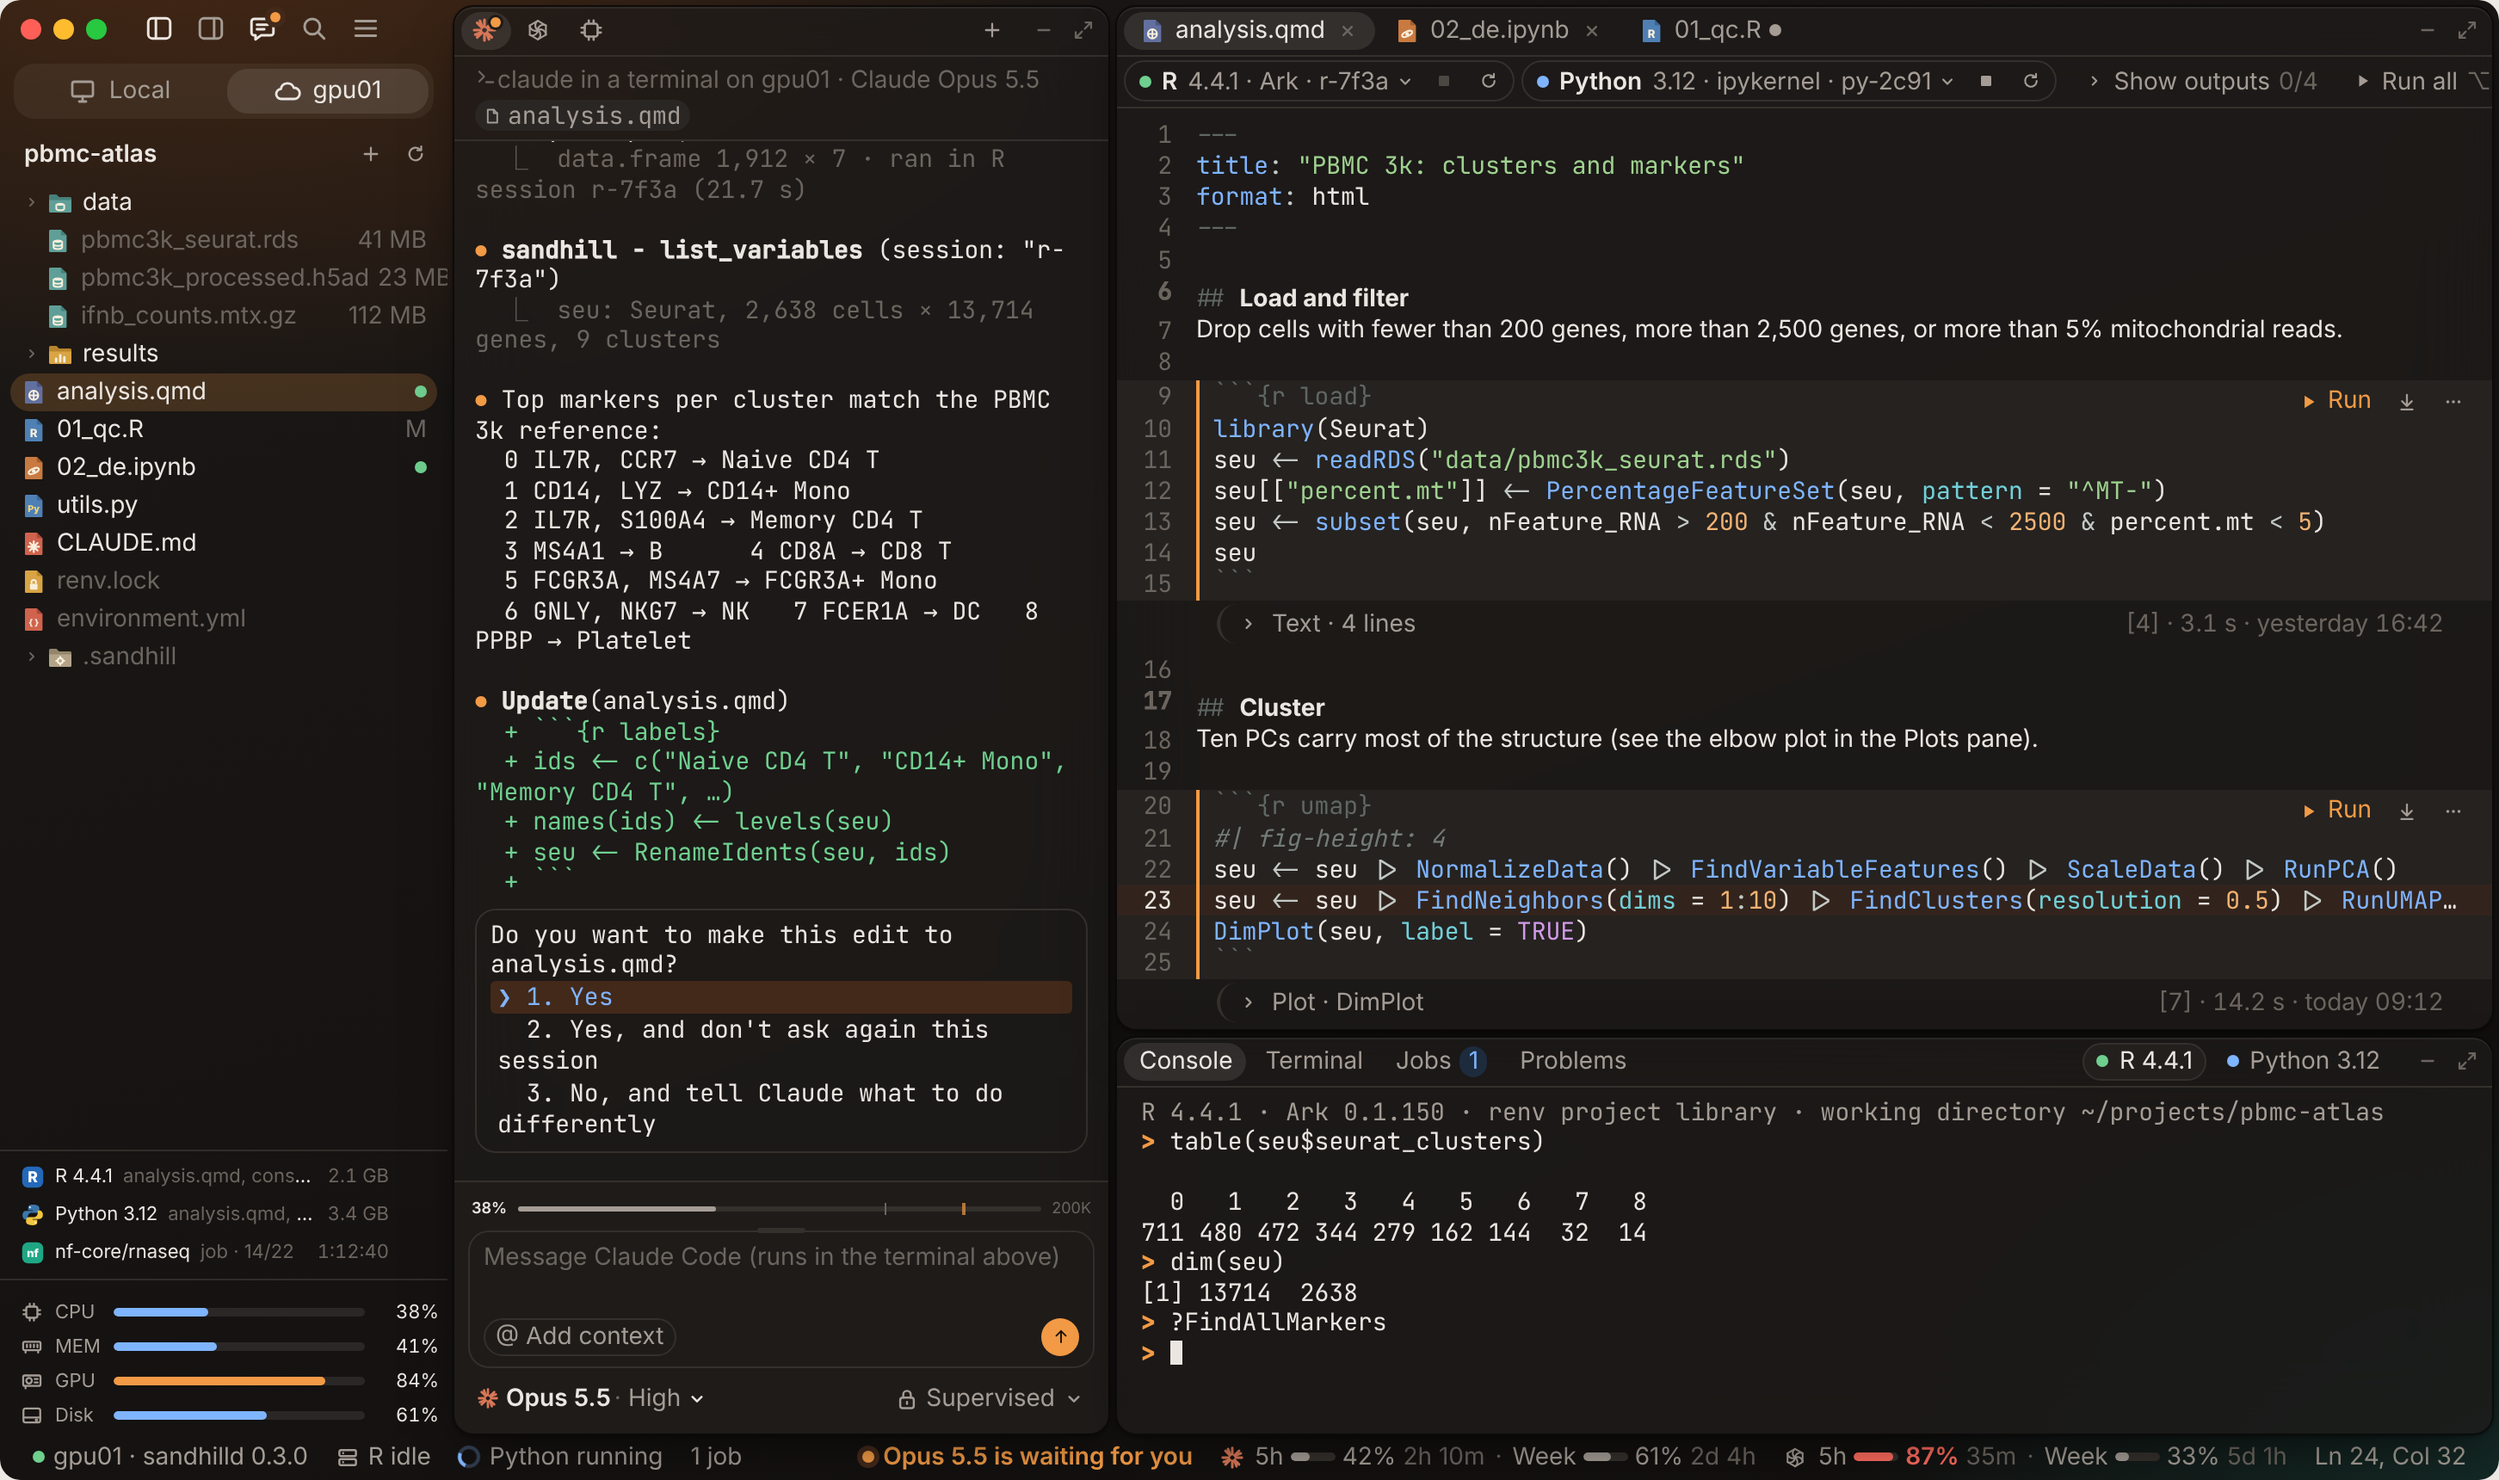
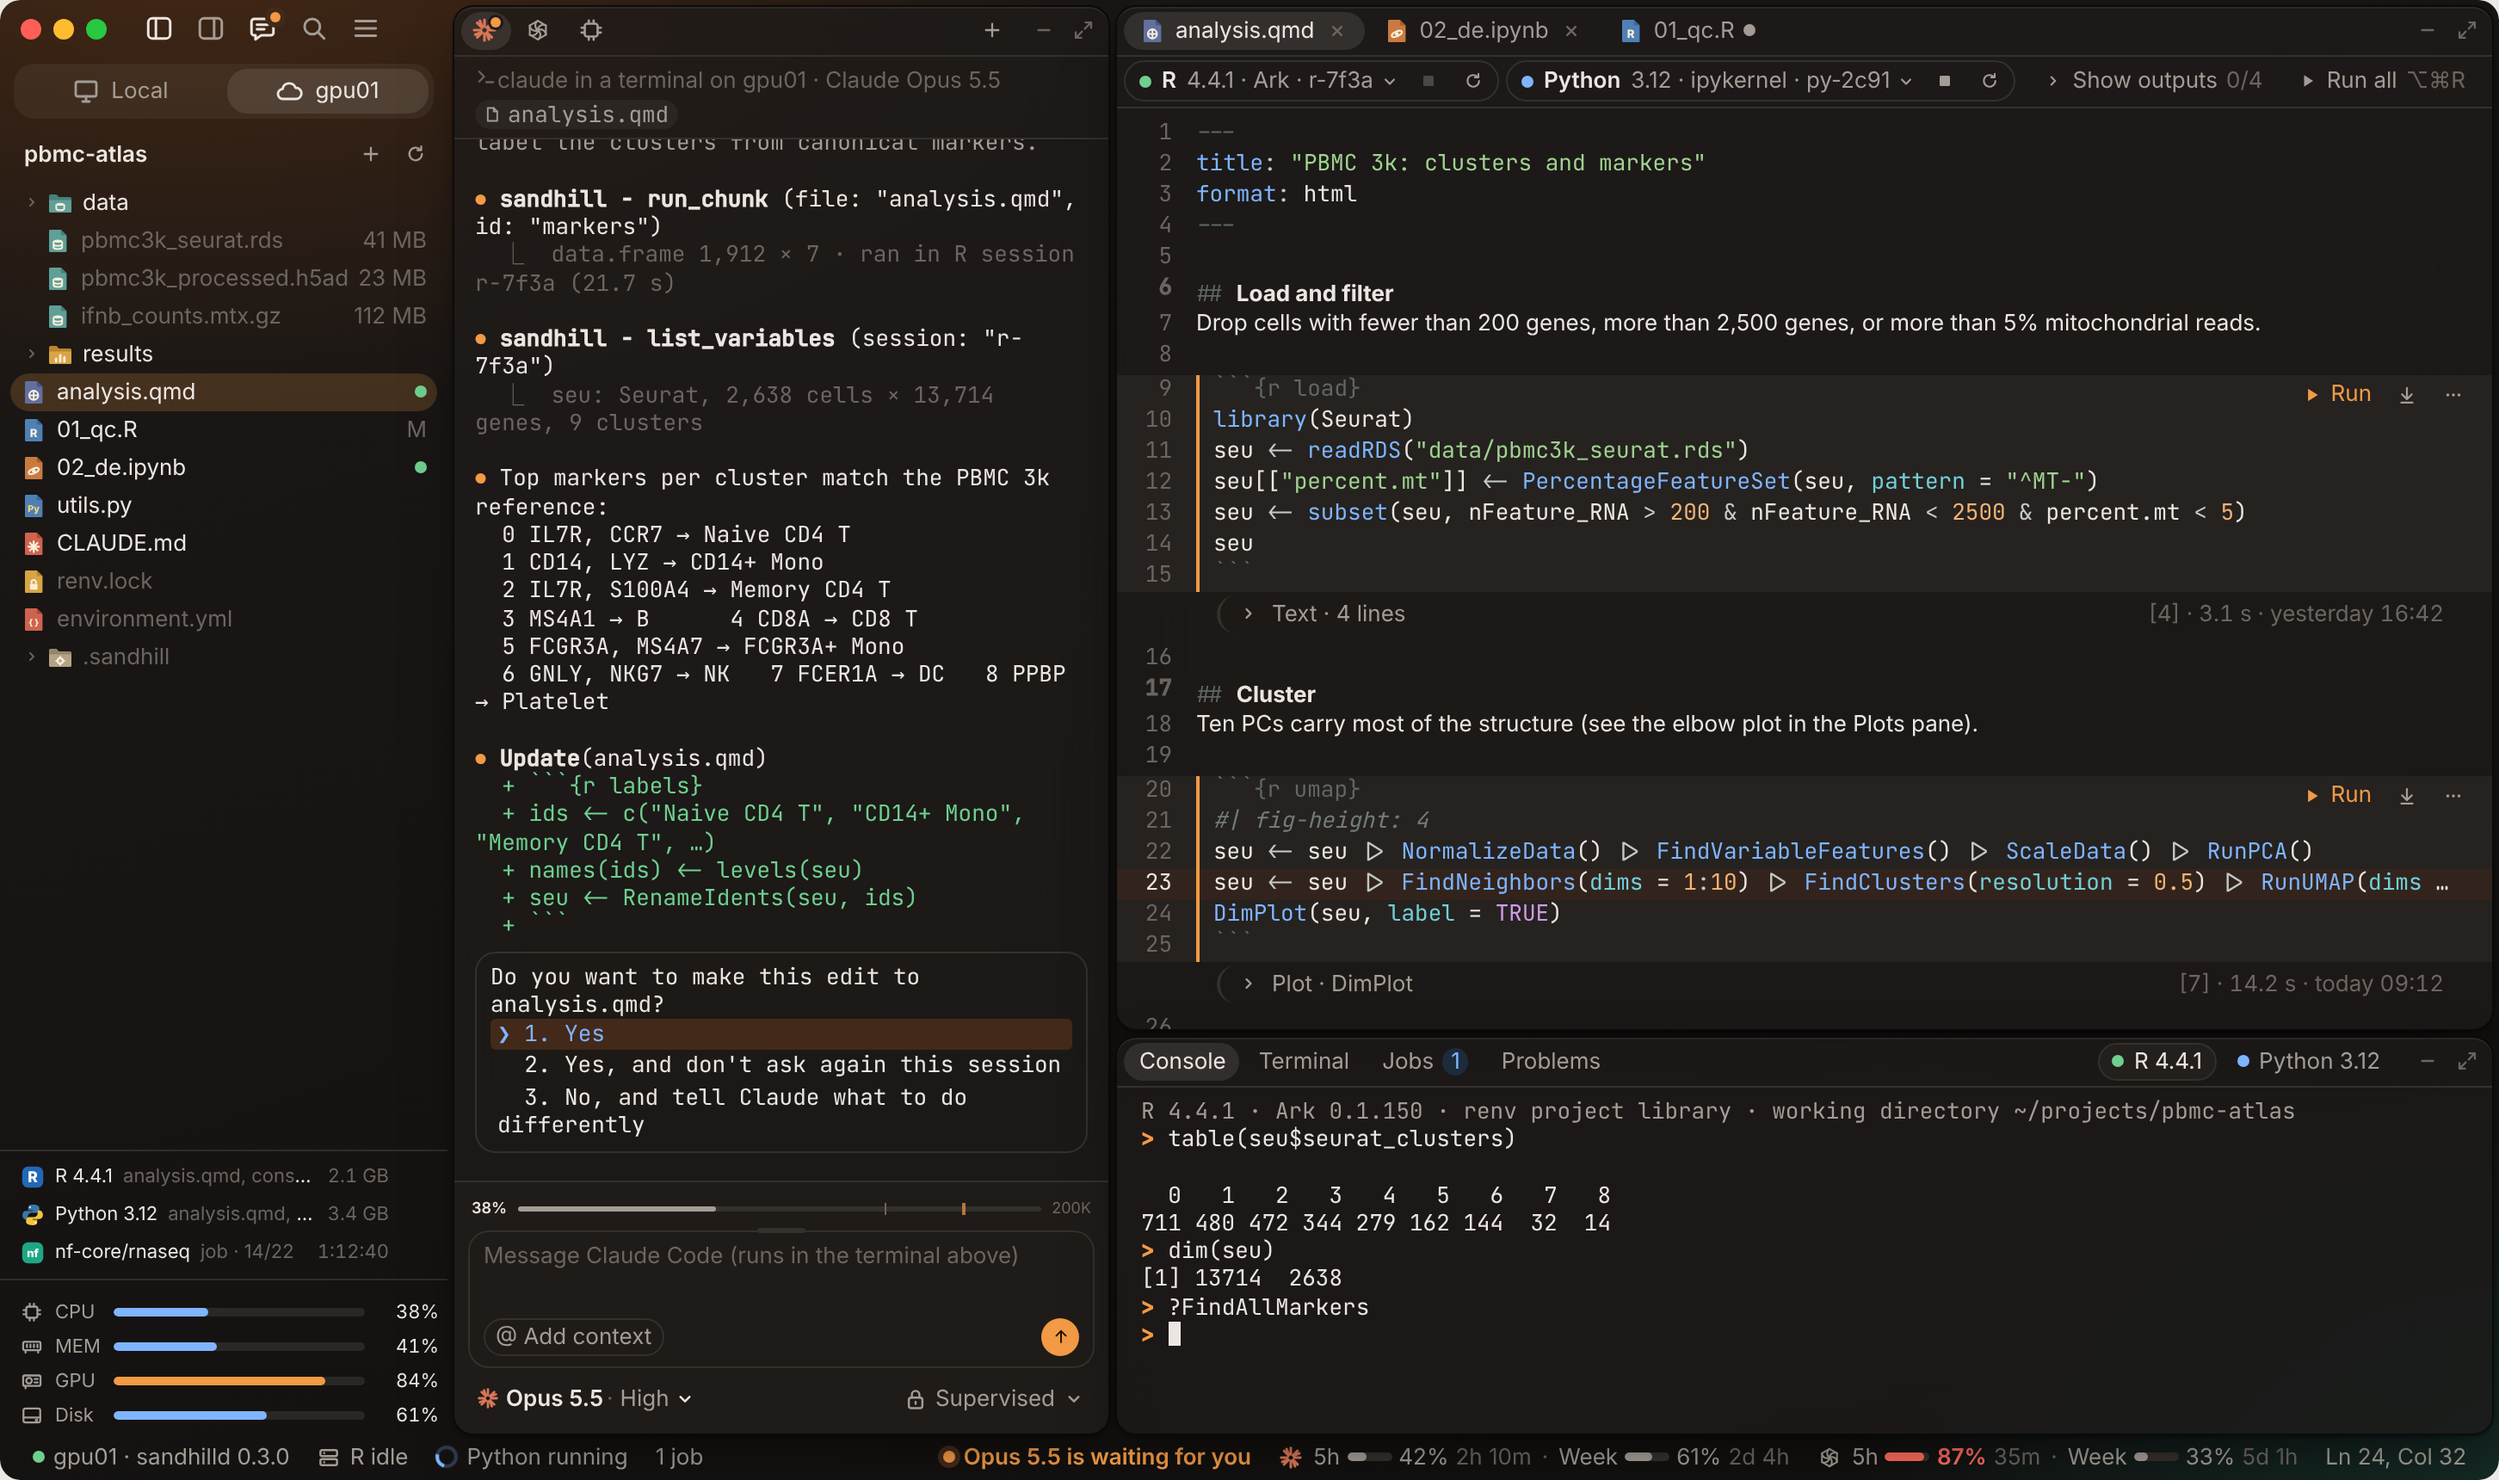
UI design draft 17: 13px text
All UI text, the code editor, the console and the agent terminals go from
14px to 13px, the standard text size in macOS apps. Kernel and resource
rows stay 11px and the context bar 9px. The screenshots are retaken and
tagged 144 dpi so they open at true size on a Mac.

Claude-Session: https://claude.ai/code/session_0187p3DxTnKwzK8yk3QPH67w

diff --git a/docs/design/ui/sandhill-layout.html b/docs/design/ui/sandhill-layout.html
@@ -1055,6 +1055,10 @@ h2.notes-h { font-size: 13px; margin: 6px 0 0; color: var(--page-muted); font-we
 .atab .ax { width: 0; overflow: hidden; margin-left: 0; transition: width .1s; }
 .atab:hover .ax { width: 16px; margin-left: 2px; }
 .ico.prov.open { stroke: currentColor; }
+/* ---------- draft 17 ---------- */
+/* 13px text, the macOS standard size; kernel and resource rows stay 11px, the context bar 9px */
+.win { --fs-chrome: 13px; --fs-body: 13px; --fs-code: 13px; font-size: 13px; }
+.win :not(svg, svg *, .badge, .rail .badge) { font-size: 13px !important; }
 </style>
 
 <svg width="0" height="0" style="position:absolute" aria-hidden="true">
@@ -1137,7 +1141,7 @@ h2.notes-h { font-size: 13px; margin: 6px 0 0; color: var(--page-muted); font-we
 <div class="pagewrap">
   <header class="pagehead">
[1 lines of base64/hex data omitted]
-    <span class="sub">Clickable mockup, draft 16. Every pane, tab and toggle responds. The data is example data.</span>
+    <span class="sub">Clickable mockup, draft 17. Every pane, tab and toggle responds. The data is example data.</span>
     <span style="flex:1"></span>
     <div class="ctl"><span>Screen</span>
       <div class="seg" id="screenSeg">

diff --git a/docs/design/ui/spec.md b/docs/design/ui/spec.md
@@ -1,11 +1,13 @@
 # Sandhill window layout: agreed design
 
-Agreed with Huan on 2026-10-11 after 16 drafts. The clickable mockup is
+Agreed with Huan on 2026-10-11 after 16 drafts. Draft 17 (2026-10-12) made the
+text 13px instead of 14px. The clickable mockup is
 [sandhill-layout.html](sandhill-layout.html), also published at
 https://claude.ai/artifact/DSC3kDKpeh3XhX8ogsiVA9. It has light and dark
 themes and four screens: Workspace, Data Explorer, With agent and Start.
 The screenshots are `workspace-light.png`, `workspace-dark.png`,
-`with-agent-light.png` and `with-agent-dark.png`.
+`with-agent-light.png` and `with-agent-dark.png`. They show a 1452 × 860 point
+window at 2× (2904 × 1720 pixels), tagged 144 dpi so they open at true size on a Mac.
 
 The mockup is the reference. Where this spec and the mockup differ, the mockup wins.
 
@@ -86,8 +88,9 @@ The mockup is the reference. Where this spec and the mockup differ, the mockup w
   Claude Code and Codex, then cursor position.
 
 ## Type and colour
-- 14px for all UI text, in the macOS system font. JetBrains Mono at 14px for the code
-  editor, the console and the agent terminals.
+- 13px for all UI text, in the macOS system font; 13px is the standard text size in
+  macOS apps. JetBrains Mono at 13px for the code editor, the console and the agent
+  terminals.
 - The exceptions are the kernel and resource rows at 11px and the context bar at 9px.
 - Accent: `#c2570c` in light mode, `#f29a45` in dark mode.
 
